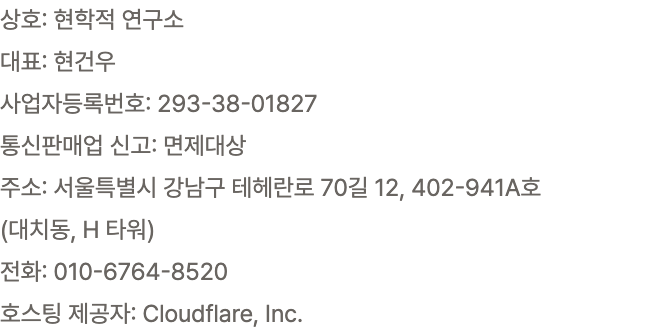
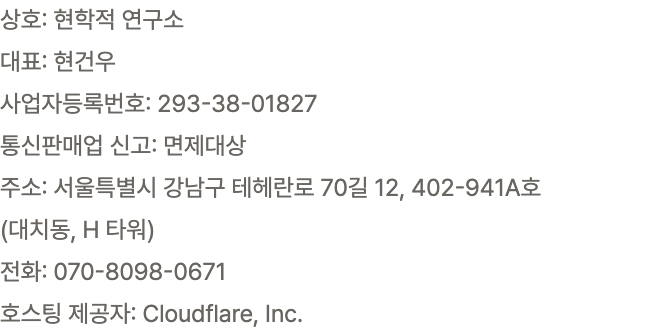
PG 심사 요건 보완: 푸터 유선번호 070-8098-0671, 약관과 개인정보 미완성 표식 제거, 결제사 표기 중립화
포트원 계약 담당 메일(09-01 15:02) 반려 사유 = 사이트 하단 유선 번호 기재 누락.
bizinfo.png 는 로컬에서 이미 070 으로 바뀌어 있었으나 미배포 상태였다.

- assets/bizinfo.png, _tools/render_bizinfo.mjs: 대표번호 010-6764-8520 → 070-8098-0671
- terms.html: 제5조 결제대행사에 포트원(KG이니시스, NHN KCP) 병기, 시행일 2026-09-01 확정,
  "[사업자 정보 확정 후 법률 검토를 거쳐 최종본을 게시합니다]" 표식 제거 (심사자가 미완성 약관으로 읽는다)
- privacy.html: 처리 위탁 "[계약 확정 후 상호 기재]" 2건을 실제 수탁자로 교체
  (본인인증 NHN KCP와 포트원, 이메일 Resend, 문자와 알림톡 솔라피), 인프라 Cloudflare 단독(GitHub 삭제),
  결제 처리에 포트원 병기, 문서 버전과 시행일 2026-09-01
- faq.html: 결제 수단 답변에서 토스페이먼츠 고유명 제거, 가상계좌 추가 (JSON-LD 동일)
- about.html: 사업자 정보 위치 문장을 실제(모든 페이지 하단)로 정정
- checkout.html: 테스트 안내문 토글을 서버 판정 cfg.testMode 로 (포트원은 상점 ID 로 테스트 구분 불가)
- pay_done.html: 포트원 복귀 파라미터 흡수 (s1 작업분)
- .assetsignore, .gitignore: *.bak* 제외. wrangler deploy 가 워킹트리 전체를 실어 백업본이 공개 URL 로 노출되던 구멍
- _docs/portone_baroopen_inquiry_20260901.md: 바로오픈 문의 문안

Claude-Session: https://claude.ai/code/session_01CAVwfzNsc7uaxdPUvvbHJh

Changed region(s): [[0.0909, 0.7738, 0.3636, 0.8333]]

diff --git a/faq.html b/faq.html
@@ -18,7 +18,7 @@
 <meta name="twitter:title" content="자주 묻는 질문, 현학적 연구소">
 <meta name="twitter:description" content="면접 가이드북 열람 방식, 제시문 면접 스튜디오 응시와 첨삭, 가격과 환불, 자료 출처에 대한 답을 모았습니다. 현학적 연구소 자주 묻는 질문.">
 <meta name="twitter:image" content="https://hyunhak.com/assets/photo/og_aigen.jpg">
-<script type="application/ld+json">{"@context":"https://schema.org","@graph":[{"@type":"Organization","@id":"https://hyunhak.com/#organization","name":"현학적 연구소","alternateName":"玄學的 硏究所","url":"https://hyunhak.com/","logo":{"@type":"ImageObject","url":"https://hyunhak.com/assets/photo/art_figure.png"},"email":"admin@hyunhak.com","sameAs":[]},{"@type":"WebSite","@id":"https://hyunhak.com/#website","url":"https://hyunhak.com/","name":"현학적 연구소","alternateName":"玄學的 硏究所","publisher":{"@id":"https://hyunhak.com/#organization"},"inLanguage":"ko-KR"},{"@type":"BreadcrumbList","@id":"https://hyunhak.com/faq.html#breadcrumb","itemListElement":[{"@type":"ListItem","position":1,"name":"현학적 연구소","item":"https://hyunhak.com/"},{"@type":"ListItem","position":2,"name":"자주 묻는 질문","item":"https://hyunhak.com/faq.html"}]},{"@type":"WebPage","@id":"https://hyunhak.com/faq.html#webpage","url":"https://hyunhak.com/faq.html","name":"자주 묻는 질문, 현학적 연구소","description":"면접 가이드북 열람 방식, 제시문 면접 스튜디오 응시와 첨삭, 가격과 환불, 자료 출처에 대한 답을 모았습니다. 현학적 연구소 자주 묻는 질문.","isPartOf":{"@id":"https://hyunhak.com/#website"},"inLanguage":"ko-KR","primaryImageOfPage":{"@type":"ImageObject","url":"https://hyunhak.com/assets/photo/og_aigen.jpg"},"breadcrumb":{"@id":"https://hyunhak.com/faq.html#breadcrumb"}},{"@type":"FAQPage","@id":"https://hyunhak.com/faq.html#faq","mainEntity":[{"@type":"Question","name":"면접 가이드북은 무엇을 담고 있습니까","acceptedAnswer":{"@type":"Answer","text":"학교 한 곳의 면접을 한 권으로 정리한 문서입니다. 전형별 면접 제원(실시 여부, 반영 비율, 시간, 형태), 질문 유형별 기출과 예상 질문, 답변 설계 순서가 들어 있습니다. 2027학년도 대비판이며 38개 대학이 있습니다."}},{"@type":"Question","name":"가이드북은 어떻게 읽습니까","acceptedAnswer":{"@type":"Answer","text":"구매 후 회원 계정으로 사이트의 보안 리더에서 읽습니다. 원본 PDF 파일은 제공하지 않으며, 인쇄는 계정당 3회까지 계정 정보가 찍힌 상태로 가능합니다."}},{"@type":"Question","name":"면접 스튜디오는 어떤 서비스입니까","acceptedAnswer":{"@type":"Answer","text":"연세대, 고려대의 제시문 면접을 촬영 응시하고 첨삭받는 온라인 과정입니다. 지문 1편을 고르면 실제 고사장과 같은 규격으로 온라인 응시하고, 회차마다 말한 그대로의 전사, 오독과 비약 진단, 구술체 재구성 세 단의 첨삭이 붙습니다. 지문 1편에 5회까지 응시합니다."}},{"@type":"Question","name":"지문 낱권과 단위 전권의 차이는 무엇입니까","acceptedAnswer":{"@type":"Answer","text":"낱권은 지문 1편 33,000원이고 그 지문으로 5회 응시합니다. 전권은 응시 단위 1곳의 지문 30편 396,000원이며 지문마다 5회 응시, 유효 기간 12개월, 기간 안의 추가 지문이 포함됩니다. 낱권으로 30편을 사면 990,000원이라 전권이 60% 적고, 한 편에 13,200원 꼴입니다. 고려대는 인문과 자연 2단위, 연세대는 신촌 인문 통합, 자연, 국제와 미래 자율융합 디자인, 첨단 보건, 국제까지 6단위입니다."}},{"@type":"Question","name":"체험 응시가 있습니까","acceptedAnswer":{"@type":"Answer","text":"회원 가입 후 체험 응시 1회를 제공합니다. 스튜디오 페이지의 체험 응시 링크에서 시작합니다."}},{"@type":"Question","name":"결제 수단은 무엇입니까","acceptedAnswer":{"@type":"Answer","text":"토스페이먼츠 결제창에서 카드, 계좌이체, 간편결제를 지원합니다. 결제 완료 즉시 이용권이 계정에 부여됩니다."}},{"@type":"Question","name":"환불은 어떻게 됩니까","acceptedAnswer":{"@type":"Answer","text":"디지털 상품은 열람 또는 응시를 시작하기 전까지 전액 환불됩니다. 시작 이후에는 이용약관 환불 조항에 따르며, 실물 배송 상품은 수령 후 7일 이내 미개봉 상태에서 반품됩니다."}},{"@type":"Question","name":"여러 기기에서 볼 수 있습니까","acceptedAnswer":{"@type":"Answer","text":"같은 계정으로 로그인한 기기에서 열람합니다. 열람 기록은 계정 단위로 남으며, 계정 공유는 이용약관 위반입니다."}},{"@type":"Question","name":"간편 로그인은 무엇을 지원합니까","acceptedAnswer":{"@type":"Answer","text":"구글, 카카오, 네이버를 지원합니다. 제공사 등록 절차가 끝나는 대로 버튼이 열리며, 그 전까지는 이메일 가입으로 이용합니다."}},{"@type":"Question","name":"자료의 출처는 무엇입니까","acceptedAnswer":{"@type":"Answer","text":"대학 모집요강, 선행학습영향평가 보고서, 시도 진로진학센터 자료집, 2016~2025 수험생 후기입니다. 페이지마다 (공식)과 (관측)을 구분해 표기하고, 출처 없는 질문은 싣지 않습니다."}},{"@type":"Question","name":"학생 개인정보가 들어 있지 않습니까","acceptedAnswer":{"@type":"Answer","text":"후기에서 수집한 질문은 개인 식별 정보를 제거한 뒤 수록합니다. 스튜디오 응시 영상은 본인 계정에서만 열람하며 외부에 공개하지 않습니다."}},{"@type":"Question","name":"현학적의 뜻이 무엇입니까","acceptedAnswer":{"@type":"Answer","text":"검을 현 玄에 배울 학 學입니다. 『천자문』 첫 구절 天地玄黃의 그 글자이며, 아득히 깊은 배움이라는 뜻으로 씁니다. 사전의 衒學的(학식을 뽐냄)과는 다른 글자입니다."}},{"@type":"Question","name":"문의는 어디로 합니까","acceptedAnswer":{"@type":"Answer","text":"admin@hyunhak.com 앞으로 보내 주세요. 확인 후 답합니다."}}]}]}</script>
+<script type="application/ld+json">{"@context":"https://schema.org","@graph":[{"@type":"Organization","@id":"https://hyunhak.com/#organization","name":"현학적 연구소","alternateName":"玄學的 硏究所","url":"https://hyunhak.com/","logo":{"@type":"ImageObject","url":"https://hyunhak.com/assets/photo/art_figure.png"},"email":"admin@hyunhak.com","sameAs":[]},{"@type":"WebSite","@id":"https://hyunhak.com/#website","url":"https://hyunhak.com/","name":"현학적 연구소","alternateName":"玄學的 硏究所","publisher":{"@id":"https://hyunhak.com/#organization"},"inLanguage":"ko-KR"},{"@type":"BreadcrumbList","@id":"https://hyunhak.com/faq.html#breadcrumb","itemListElement":[{"@type":"ListItem","position":1,"name":"현학적 연구소","item":"https://hyunhak.com/"},{"@type":"ListItem","position":2,"name":"자주 묻는 질문","item":"https://hyunhak.com/faq.html"}]},{"@type":"WebPage","@id":"https://hyunhak.com/faq.html#webpage","url":"https://hyunhak.com/faq.html","name":"자주 묻는 질문, 현학적 연구소","description":"면접 가이드북 열람 방식, 제시문 면접 스튜디오 응시와 첨삭, 가격과 환불, 자료 출처에 대한 답을 모았습니다. 현학적 연구소 자주 묻는 질문.","isPartOf":{"@id":"https://hyunhak.com/#website"},"inLanguage":"ko-KR","primaryImageOfPage":{"@type":"ImageObject","url":"https://hyunhak.com/assets/photo/og_aigen.jpg"},"breadcrumb":{"@id":"https://hyunhak.com/faq.html#breadcrumb"}},{"@type":"FAQPage","@id":"https://hyunhak.com/faq.html#faq","mainEntity":[{"@type":"Question","name":"면접 가이드북은 무엇을 담고 있습니까","acceptedAnswer":{"@type":"Answer","text":"학교 한 곳의 면접을 한 권으로 정리한 문서입니다. 전형별 면접 제원(실시 여부, 반영 비율, 시간, 형태), 질문 유형별 기출과 예상 질문, 답변 설계 순서가 들어 있습니다. 2027학년도 대비판이며 38개 대학이 있습니다."}},{"@type":"Question","name":"가이드북은 어떻게 읽습니까","acceptedAnswer":{"@type":"Answer","text":"구매 후 회원 계정으로 사이트의 보안 리더에서 읽습니다. 원본 PDF 파일은 제공하지 않으며, 인쇄는 계정당 3회까지 계정 정보가 찍힌 상태로 가능합니다."}},{"@type":"Question","name":"면접 스튜디오는 어떤 서비스입니까","acceptedAnswer":{"@type":"Answer","text":"연세대, 고려대의 제시문 면접을 촬영 응시하고 첨삭받는 온라인 과정입니다. 지문 1편을 고르면 실제 고사장과 같은 규격으로 온라인 응시하고, 회차마다 말한 그대로의 전사, 오독과 비약 진단, 구술체 재구성 세 단의 첨삭이 붙습니다. 지문 1편에 5회까지 응시합니다."}},{"@type":"Question","name":"지문 낱권과 단위 전권의 차이는 무엇입니까","acceptedAnswer":{"@type":"Answer","text":"낱권은 지문 1편 33,000원이고 그 지문으로 5회 응시합니다. 전권은 응시 단위 1곳의 지문 30편 396,000원이며 지문마다 5회 응시, 유효 기간 12개월, 기간 안의 추가 지문이 포함됩니다. 낱권으로 30편을 사면 990,000원이라 전권이 60% 적고, 한 편에 13,200원 꼴입니다. 고려대는 인문과 자연 2단위, 연세대는 신촌 인문 통합, 자연, 국제와 미래 자율융합 디자인, 첨단 보건, 국제까지 6단위입니다."}},{"@type":"Question","name":"체험 응시가 있습니까","acceptedAnswer":{"@type":"Answer","text":"회원 가입 후 체험 응시 1회를 제공합니다. 스튜디오 페이지의 체험 응시 링크에서 시작합니다."}},{"@type":"Question","name":"결제 수단은 무엇입니까","acceptedAnswer":{"@type":"Answer","text":"결제창에서 카드, 계좌이체, 가상계좌, 간편결제를 지원합니다. 결제 완료 즉시 이용권이 계정에 부여됩니다."}},{"@type":"Question","name":"환불은 어떻게 됩니까","acceptedAnswer":{"@type":"Answer","text":"디지털 상품은 열람 또는 응시를 시작하기 전까지 전액 환불됩니다. 시작 이후에는 이용약관 환불 조항에 따르며, 실물 배송 상품은 수령 후 7일 이내 미개봉 상태에서 반품됩니다."}},{"@type":"Question","name":"여러 기기에서 볼 수 있습니까","acceptedAnswer":{"@type":"Answer","text":"같은 계정으로 로그인한 기기에서 열람합니다. 열람 기록은 계정 단위로 남으며, 계정 공유는 이용약관 위반입니다."}},{"@type":"Question","name":"간편 로그인은 무엇을 지원합니까","acceptedAnswer":{"@type":"Answer","text":"구글, 카카오, 네이버를 지원합니다. 제공사 등록 절차가 끝나는 대로 버튼이 열리며, 그 전까지는 이메일 가입으로 이용합니다."}},{"@type":"Question","name":"자료의 출처는 무엇입니까","acceptedAnswer":{"@type":"Answer","text":"대학 모집요강, 선행학습영향평가 보고서, 시도 진로진학센터 자료집, 2016~2025 수험생 후기입니다. 페이지마다 (공식)과 (관측)을 구분해 표기하고, 출처 없는 질문은 싣지 않습니다."}},{"@type":"Question","name":"학생 개인정보가 들어 있지 않습니까","acceptedAnswer":{"@type":"Answer","text":"후기에서 수집한 질문은 개인 식별 정보를 제거한 뒤 수록합니다. 스튜디오 응시 영상은 본인 계정에서만 열람하며 외부에 공개하지 않습니다."}},{"@type":"Question","name":"현학적의 뜻이 무엇입니까","acceptedAnswer":{"@type":"Answer","text":"검을 현 玄에 배울 학 學입니다. 『천자문』 첫 구절 天地玄黃의 그 글자이며, 아득히 깊은 배움이라는 뜻으로 씁니다. 사전의 衒學的(학식을 뽐냄)과는 다른 글자입니다."}},{"@type":"Question","name":"문의는 어디로 합니까","acceptedAnswer":{"@type":"Answer","text":"admin@hyunhak.com 앞으로 보내 주세요. 확인 후 답합니다."}}]}]}</script>
 <!-- seo:end -->
 <link rel="icon" href="assets/favicon_32.png">
 <link rel="preload" as="style" href="https://cdn.jsdelivr.net/gh/orioncactus/pretendard@v1.3.9/dist/web/variable/pretendardvariable-dynamic-subset.min.css" onload="this.onload=null;this.rel='stylesheet'"><noscript><link rel="stylesheet" href="https://cdn.jsdelivr.net/gh/orioncactus/pretendard@v1.3.9/dist/web/variable/pretendardvariable-dynamic-subset.min.css"></noscript>
@@ -91,7 +91,7 @@
     <details class="faq"><summary>지문 낱권과 단위 전권의 차이는 무엇입니까</summary><div class="a"><p>낱권은 지문 1편 33,000원이고 그 지문으로 5회 응시합니다. 전권은 응시 단위 1곳의 지문 30편 396,000원이며 지문마다 5회 응시, 유효 기간 12개월, 기간 안의 추가 지문이 포함됩니다. 낱권으로 30편을 사면 990,000원이라 전권이 60% 적고, 한 편에 13,200원 꼴입니다. 고려대는 인문과 자연 2단위, 연세대는 신촌 인문 통합, 자연, 국제와 미래 자율융합 디자인, 첨단 보건, 국제까지 6단위입니다.</p></div></details>
     <details class="faq"><summary>체험 응시가 있습니까</summary><div class="a"><p>회원 가입 후 체험 응시 1회를 제공합니다. 스튜디오 페이지의 체험 응시 링크에서 시작합니다.</p></div></details>
     <h2 id="q-pay">결제와 이용</h2>
-    <details class="faq"><summary>결제 수단은 무엇입니까</summary><div class="a"><p>토스페이먼츠 결제창에서 카드, 계좌이체, 간편결제를 지원합니다. 결제 완료 즉시 이용권이 계정에 부여됩니다.</p></div></details>
+    <details class="faq"><summary>결제 수단은 무엇입니까</summary><div class="a"><p>결제창에서 카드, 계좌이체, 가상계좌, 간편결제를 지원합니다. 결제 완료 즉시 이용권이 계정에 부여됩니다.</p></div></details>
     <details class="faq"><summary>환불은 어떻게 됩니까</summary><div class="a"><p>디지털 상품은 열람 또는 응시를 시작하기 전까지 전액 환불됩니다. 시작 이후에는 이용약관 환불 조항에 따르며, 실물 배송 상품은 수령 후 7일 이내 미개봉 상태에서 반품됩니다.</p></div></details>
     <details class="faq"><summary>여러 기기에서 볼 수 있습니까</summary><div class="a"><p>같은 계정으로 로그인한 기기에서 열람합니다. 열람 기록은 계정 단위로 남으며, 계정 공유는 이용약관 위반입니다.</p></div></details>
     <details class="faq"><summary>간편 로그인은 무엇을 지원합니까</summary><div class="a"><p>구글, 카카오, 네이버를 지원합니다. 제공사 등록 절차가 끝나는 대로 버튼이 열리며, 그 전까지는 이메일 가입으로 이용합니다.</p></div></details>

diff --git a/checkout.html b/checkout.html
@@ -27,7 +27,6 @@
 <link rel="preconnect" href="https://cdn.jsdelivr.net" crossorigin>
 <link rel="preload" as="style" href="https://fonts.googleapis.com/css2?family=Noto+Serif+KR:wght@300;500;700&display=swap" onload="this.onload=null;this.rel='stylesheet'"><noscript><link rel="stylesheet" href="https://fonts.googleapis.com/css2?family=Noto+Serif+KR:wght@300;500;700&display=swap"></noscript>
 <link rel="stylesheet" href="assets/base.css">
-<script src="https://js.tosspayments.com/v2/standard"></script>
 <style>
 /* 결제 전용 */
 .lay{padding-top:0}
@@ -37,6 +36,10 @@
 .addr .zipline{display:grid;grid-template-columns:minmax(0,1fr) auto;gap:var(--s3);align-items:end}
 .addr .zipline .btn{margin-bottom:var(--s4)}
 .pay #payment-method,.pay #agreement{background:var(--card);border-radius:6px;padding:var(--s2)}
+.pay .pgm{border:0;margin:0;padding:0}.pay .pgm legend{position:absolute;width:1px;height:1px;overflow:hidden;clip:rect(0 0 0 0)}
+.pay .pgm label,.pay .agree{display:flex;align-items:center;gap:.5rem;padding:.55rem 0;cursor:pointer}
+.pay .pgm label+label{border-top:1px solid var(--line)}
+.pay .pgm .note{color:var(--muted);font-size:.86em}
 .pay #agreement{margin-top:var(--s3)}
 .bill .item{display:flex;justify-content:space-between;gap:16px;padding:10px 0;font-size:14px;border-top:1px solid var(--hairs)}
 .bill .item span:first-child{color:var(--body)}
@@ -86,7 +89,7 @@
    <div class="pagehead">
     <nav class="crumb" aria-label="위치"><a href="index.html">현학적 연구소</a><span aria-hidden="true">/</span><a href="cart.html">장바구니</a><span aria-hidden="true">/</span><span>결제</span></nav>
     <h1>결제</h1>
-    <p class="lede">토스페이먼츠 결제창. 카드, 계좌이체, 간편결제.</p>
+    <p class="lede">카드, 계좌이체, 가상계좌로 결제합니다.</p>
    </div>
   </div>
 </section>
@@ -200,7 +203,7 @@ document.addEventListener('DOMContentLoaded', async function(){
       + '<p class="hh-popup-kind">구매 전 안내</p>'
       + '<h2 id="gbNoticeTitle" class="hh-popup-title">가이드북 열람 안내</h2>'
       + '<div class="hh-popup-body">'
-      + '<p>가이드북은 결제 즉시 브라우저 보안 리더로 열람하실 수 있으며, 열람 기간은 구매일부터 3개월입니다.</p>'
+      + '<p>가이드북은 결제 즉시 브라우저 보안 리더로 열람하실 수 있으며, 열람 기간은 구매일부터 1개월입니다.</p>'
       + '<p>인쇄는 권당 3회까지 가능합니다.</p>'
       // 전자상거래법 제17조 제6항: 청약철회 제한 사실을 구매 화면에 표시 (약관 제6조 ③ 과 같은 문장, 2026-08-30 AIG-5)
       + '<p>열람을 시작한 뒤에는 청약철회가 제한됩니다(전자상거래법 제17조 제2항). 열람을 시작하기 전에는 취소할 수 있습니다.</p>'
@@ -243,20 +246,110 @@ document.addEventListener('DOMContentLoaded', async function(){
   $('#sumTotal').textContent = HH.won(total);
   $('#payBtn').textContent = HH.won(total)+' 결제';
 
-  // 위젯 초기화 실패(설정 API, SDK 로드, 키 문제) 시 무반응 버튼 방지: 성공 전까지 비활성 + 안내
-  var widgets;
+  // 결제사가 둘이다. 토스는 위젯이 결제수단 화면을 그려 주고, 포트원에는 그런 위젯이 없어
+  // 우리가 직접 그린다. 두 드라이버가 같은 계약(ready/setAmount/requestPayment)을 만족하므로
+  // 아래 결제 버튼 처리는 어느 쪽이든 한 벌로 돈다.
+  function loadScript(src){
+    return new Promise(function(res, rej){
+      var el = document.createElement('script'); el.src = src; el.async = true;
+      el.onload = res; el.onerror = function(){ rej(new Error('결제 모듈을 불러오지 못했습니다')); };
+      document.head.appendChild(el);
+    });
+  }
+
+  function tossDriver(cfg, member){
+    var widgets = null;
+    return {
+      async ready(amount){
+        await loadScript('https://js.tosspayments.com/v2/standard');
+        if(typeof TossPayments !== 'function') throw new Error('결제 모듈을 불러오지 못했습니다');
+        widgets = TossPayments(cfg.tossClientKey).widgets({ customerKey: member.id });
+        await widgets.setAmount({ currency:'KRW', value: amount });
+        await Promise.all([
+          widgets.renderPaymentMethods({ selector:'#payment-method' }),
+          widgets.renderAgreement({ selector:'#agreement' })
+        ]);
+      },
+      setAmount: function(amount){ return widgets.setAmount({ currency:'KRW', value: amount }); },
+      requestPayment: function(order){
+        return widgets.requestPayment({
+          orderId: order.orderId,
+          orderName: order.orderName,
+          successUrl: location.origin + '/pay_done.html',
+          failUrl: location.origin + '/pay_done.html?fail=1',
+          customerEmail: member.email,
+          customerName: member.name || undefined
+        });
+      }
+    };
+  }
+
+  function portoneDriver(cfg, member){
+    // 바로오픈(KG이니시스)에서 열리는 수단은 셋이다. 간편결제와 할부는 카드사 심사가
+    // 끝나기 전까지 열리지 않으므로 화면에도 올리지 않는다.
+    var METHODS = [
+      { v:'CARD',            label:'카드',        note:'일시불' },
+      { v:'TRANSFER',        label:'실시간 계좌이체', note:'' },
+      { v:'VIRTUAL_ACCOUNT', label:'가상계좌',    note:'입금이 확인되면 지급됩니다' }
+    ];
+    var picked = 'CARD';
+    return {
+      async ready(){
+        await loadScript('https://cdn.portone.io/v2/browser-sdk.js');
+        if(!window.PortOne) throw new Error('결제 모듈을 불러오지 못했습니다');
+        $('#payment-method').innerHTML =
+          '<fieldset class="pgm"><legend>결제 수단</legend>' +
+          METHODS.map(function(m, i){
+            return '<label><input type="radio" name="pgm" value="' + m.v + '"' + (i===0?' checked':'') + '> '
+              + esc(m.label) + (m.note ? ' <span class="note">' + esc(m.note) + '</span>' : '') + '</label>';
+          }).join('') + '</fieldset>';
+        $('#payment-method').addEventListener('change', function(ev){
+          if(ev.target && ev.target.name === 'pgm') picked = ev.target.value;
+        });
+        $('#agreement').innerHTML =
+          '<label class="agree"><input type="checkbox" id="pgAgree"> '
+          + '<a href="terms.html" target="_blank" rel="noopener">이용약관</a>과 '
+          + '<a href="privacy.html" target="_blank" rel="noopener">개인정보 처리방침</a>에 동의하고 결제합니다.</label>';
+      },
+      setAmount: function(){ return Promise.resolve(); },   // 포트원은 결제 호출 시점에 금액을 넘긴다
+      async requestPayment(order){
+        if(!$('#pgAgree') || !$('#pgAgree').checked){
+          var err = new Error('약관에 동의해 주세요'); err.code = 'AGREEMENT_REQUIRED'; throw err;
+        }
+        var req = {
+          storeId: cfg.portoneStoreId,
+          channelKey: cfg.portoneChannelKey,
+          paymentId: order.orderId,          // 주문번호를 결제 식별자로 그대로 쓴다 (조회 키가 하나)
+          orderName: order.orderName,
+          totalAmount: order.amount,
+          currency: 'CURRENCY_KRW',
+          payMethod: picked,
+          redirectUrl: location.origin + '/pay_done.html',
+          customer: { customerId: member.id, email: member.email, fullName: member.name || undefined }
+        };
+        if(picked === 'VIRTUAL_ACCOUNT') req.virtualAccount = { accountExpiry: { validHours: 72 } };
+        var res = await PortOne.requestPayment(req);
+        // 모바일은 redirectUrl 로 떠나고, PC 는 결과를 돌려준다. 확정 경로를 한 곳으로 모으려고
+        // PC 도 같은 주소로 보낸다 (승인 검증이 pay_done 한 곳에만 있게).
+        if(res && res.code){
+          var e2 = new Error(res.message || '결제를 시작하지 못했습니다'); e2.code = res.code; throw e2;
+        }
+        location.href = '/pay_done.html?paymentId=' + encodeURIComponent(order.orderId)
+          + (res && res.txId ? '&transactionId=' + encodeURIComponent(res.txId) : '');
+      }
+    };
+  }
+
+  // 초기화 실패(설정 API, SDK 로드, 키 문제) 시 무반응 버튼 방지: 성공 전까지 비활성 + 안내
+  var driver;
   $('#payBtn').disabled = true;
   try{
     var cfg = await HH.api('/api/config');
-    if(!/^test_/.test(cfg.tossClientKey)) $('#testNote').style.display='none';
-    if(typeof TossPayments!=='function') throw new Error('결제 모듈을 불러오지 못했습니다');
-    var toss = TossPayments(cfg.tossClientKey);
-    widgets = toss.widgets({ customerKey: st.member.id });
-    await widgets.setAmount({ currency:'KRW', value: total });
-    await Promise.all([
-      widgets.renderPaymentMethods({ selector:'#payment-method' }),
-      widgets.renderAgreement({ selector:'#agreement' })
-    ]);
+    // 테스트 여부는 서버가 판정해 내려준다 (포트원은 상점 ID 로 구분이 안 되고 채널 단위다)
+    var isTest = !!cfg.testMode;
+    if(!isTest) $('#testNote').style.display='none';
+    driver = cfg.provider === 'portone' ? portoneDriver(cfg, st.member) : tossDriver(cfg, st.member);
+    await driver.ready(total);
     widgetReady = true; syncPayBtn();
   }catch(e){
     $('#payment-method').innerHTML = '<p class="note" role="alert">결제 수단을 불러오지 못했습니다. 새로고침 후 다시 시도하시고, 반복되면 admin@hyunhak.com 으로 알려 주세요.</p>';
@@ -289,21 +382,15 @@ document.addEventListener('DOMContentLoaded', async function(){
           return '<p class="item"><span>'+esc(it.title)+', '+it.qty+(it.ship?'부':'건')+'</span><span>'+HH.won(it.price*it.qty)+'</span></p>'}).join('');
         $('#sumTotal').textContent = HH.won(total);
         btn.disabled = false; btn.textContent = HH.won(total) + ' 결제';
-        await widgets.setAmount({ currency:'KRW', value: total });
+        await driver.setAmount(total);
         alert('상품 가격이 변경되어 결제 금액이 ' + HH.won(total) + ' 입니다. 품목 금액을 확인하신 뒤 다시 눌러 주세요.');
         return;
       }
-      await widgets.setAmount({ currency:'KRW', value: order.amount });
-      await widgets.requestPayment({
-        orderId: order.orderId,
-        orderName: order.orderName,
-        successUrl: location.origin + '/pay_done.html',
-        failUrl: location.origin + '/pay_done.html?fail=1',
-        customerEmail: st.member.email,
-        customerName: st.member.name || undefined
-      });
+      await driver.setAmount(order.amount);
+      await driver.requestPayment(order);
     }catch(e){
-      if(e && e.code === 'USER_CANCEL') {} else alert(e.message||'결제를 시작하지 못했습니다');
+      var canceled = e && (e.code === 'USER_CANCEL' || /취소|cancel/i.test(String(e.code||'') + ' ' + String(e.message||'')));
+      if(canceled) {} else alert(e.message||'결제를 시작하지 못했습니다');
       btn.disabled=false; btn.textContent=HH.won(total)+' 결제';
     }
   });

diff --git a/terms.html b/terms.html
@@ -108,7 +108,7 @@
 
   <h2>제5조 (구매와 결제)</h2>
   <ol>
-    <li>결제는 연구소가 계약한 전자결제대행사(토스페이먼츠)를 통해 처리합니다.</li>
+    <li>결제는 연구소가 계약한 전자결제대행사(토스페이먼츠, 포트원을 통한 KG이니시스와 NHN KCP)를 통해 처리합니다.</li>
     <li>주문 금액은 서버에 등록된 판매가를 기준으로 확정하며, 표시 오류가 있는 경우
     결제 전 고지 후 정정합니다.</li>
     <li>실물 상품의 배송비는 3,000원이며 5만원 이상 주문 시 무료입니다.</li>
@@ -145,7 +145,7 @@
   <h2>제8조의2 (가이드북 열람 서비스)</h2>
   <ol>
     <li>가이드북은 파일을 전달하지 않고 웹 열람 방식으로 제공하며, 구매한 계정으로만 열람할 수
-    있습니다. 열람 기간은 구매일부터 3개월입니다. 동시 열람은 계정당 3개 세션까지 허용하고,
+    있습니다. 열람 기간은 구매일부터 1개월입니다. 동시 열람은 계정당 3개 세션까지 허용하고,
     초과하면 가장 오래된 세션이 자동 종료됩니다. 인터넷 강의의 동시 시청에도 같은 세션 한도를
     적용합니다. 인쇄는 권당 3회까지 가능합니다.</li>
     <li>회원은 다음 행위를 할 수 없습니다.
@@ -188,8 +188,7 @@
   <p>서비스 이용과 관련한 분쟁은 연구소와 이용자가 성실히 협의하여 해결하며,
   협의가 이루어지지 않는 경우 민사소송법상의 관할 법원에 제소합니다.</p>
 
-  <p class="updated">문서 버전: 2026-08-26. 시행일: 정식 오픈일에 확정합니다.
-  <span class="mark">[사업자 정보 확정 후 법률 검토를 거쳐 최종본을 게시합니다]</span></p>
+  <p class="updated">문서 버전: 2026-09-01. 시행일: 2026-09-01.</p>
 
 </div></div>
 

diff --git a/pay_done.html b/pay_done.html
@@ -119,16 +119,25 @@ document.addEventListener('DOMContentLoaded', async function(){
     return;
   }
 
-  var paymentKey = q.get('paymentKey'), orderId = q.get('orderId'), amount = parseInt(q.get('amount'), 10);
-  if (!paymentKey || !orderId || !amount) {
+  // 결제사마다 돌아오는 파라미터 이름이 다르다.
+  //   토스   ?paymentKey=&orderId=&amount=
+  //   포트원 ?paymentId=&transactionId=   (금액을 주지 않는다)
+  // 금액은 어차피 서버가 DB 값으로만 승인하므로, 없으면 응답에서 받아 표시한다.
+  var paymentKey = q.get('paymentKey') || q.get('transactionId');
+  var orderId = q.get('orderId') || q.get('paymentId');
+  var amount = parseInt(q.get('amount'), 10);
+  if (!Number.isInteger(amount)) amount = null;
+  if (!orderId) {
     h.textContent = '잘못된 접근입니다';
     sub.textContent = '결제 창을 통해서만 열리는 화면입니다.';
     acts.hidden = false; acts.innerHTML = '<a class="btn" href="index.html">처음으로 <span class="ar" aria-hidden="true">→</span></a>';
     return;
   }
   try {
-    var r = await HH.api('/api/payments/confirm', { method: 'POST',
-      body: JSON.stringify({ paymentKey: paymentKey, orderId: orderId, amount: amount }) });
+    var reqBody = { paymentKey: paymentKey, orderId: orderId };
+    if (amount !== null) reqBody.amount = amount;          // 토스 경로만 클라이언트 금액 대조를 겸한다
+    var r = await HH.api('/api/payments/confirm', { method: 'POST', body: JSON.stringify(reqBody) });
+    if (amount === null) amount = r.amount;                // 포트원 경로는 서버가 확정한 금액으로 표시
     try { localStorage.removeItem('hh_cart_v1'); } catch(e) {}
     if (r.status === 'waiting_deposit') {
       var va = r.vaccount || {};

diff --git a/privacy.html b/privacy.html
@@ -102,10 +102,11 @@
 
   <h2>2. 처리 위탁과 제3자 제공</h2>
   <ul>
-    <li>결제 처리: 토스페이먼츠 (결제 승인, 정산)</li>
-    <li>인프라 운영: Cloudflare (웹 호스팅, 보안), GitHub (정적 페이지 호스팅)</li>
-    <li>본인인증(도입 시): 본인확인기관과 인증 중개사 <span class="mark">[계약 확정 후 상호 기재]</span></li>
-    <li>이메일, 문자 발송(도입 시): 발송 대행사 <span class="mark">[계약 확정 후 상호 기재]</span></li>
+    <li>결제 처리: 토스페이먼츠, 포트원(KG이니시스, NHN KCP 결제 중개) (결제 승인, 정산)</li>
+    <li>인프라 운영: Cloudflare (웹 호스팅, 보안, 데이터베이스, 파일 저장)</li>
+    <li>본인인증(도입 시): NHN KCP (휴대폰 본인확인), 포트원 (인증 중개)</li>
+    <li>이메일 발송: Resend (인증 메일, 주문과 이용권 안내)</li>
+    <li>문자, 알림톡 발송(도입 시): 솔라피 (주문과 이용권 안내)</li>
   </ul>
   <p>위 수탁자 외 제3자에게 개인정보를 제공하지 않습니다. 다만 아래의 경우 정보주체의
   개별 동의를 받아 제3자에게 제공합니다. 법령에 근거한 요청은 예외로 합니다.</p>
@@ -175,8 +176,7 @@
   <h2>8. 개인정보 보호책임자</h2>
   <p>보호책임자: 현건우,  문의: admin@hyunhak.com</p>
 
-  <p class="updated">문서 버전: 2026-08-26. 시행일: 정식 오픈일에 확정합니다.
-  <span class="mark">[사업자 정보 확정 후 법률 검토를 거쳐 최종본을 게시합니다]</span></p>
+  <p class="updated">문서 버전: 2026-09-01. 시행일: 2026-09-01.</p>
 
 </div></div>
 

diff --git a/about.html b/about.html
@@ -97,7 +97,7 @@
   <div class="prose rv">
     <p>현학적 연구소는 대입 면접만 다룹니다. 대학이 공개한 모집요강과 선행학습영향평가 보고서, 수험생 후기에서 관측된 질문을 모아 학교별로 정리하고, 제시문 면접은 학생이 실제로 말하는 장면을 온라인으로 촬영해 첨삭합니다.</p>
     <p>산출물은 두 가지입니다. 학교별 2027 면접 가이드북 38권, 그리고 연세대와 고려대의 제시문 면접 스튜디오입니다.</p>
-    <p>면접 자료의 출처는 페이지마다 공식과 관측을 구분해 표기합니다. 사업자 정보는 하단 이용약관과 개인정보처리방침에 기재합니다.</p>
+    <p>면접 자료의 출처는 페이지마다 공식과 관측을 구분해 표기합니다. 사업자 정보(상호, 대표, 사업자등록번호, 주소, 전화)는 모든 페이지 하단에 기재합니다.</p>
   </div>
   <div class="glyph rv" aria-hidden="true"><b>玄</b><span>검을 현. 아득히 깊은 배움</span></div>
 </section>

diff --git a/_docs/portone_baroopen_inquiry_20260901.md b/_docs/portone_baroopen_inquiry_20260901.md
@@ -1,0 +1,36 @@
+# 포트원 바로오픈 문의 문안 (2026-09-01)
+
+보낼 곳: 포트원 관리자콘솔 채널톡, 또는 pgs@portone.io
+계정: 현학적 연구소 / alongtheblue@gmail.com / Store ID `store-84534eb1-dc61-4f76-8244-760ea90582d3`
+
+---
+
+## 문의 본문 (그대로 복사해 보내시면 됩니다)
+
+안녕하세요. 현학적 연구소입니다.
+
+KG이니시스와 NHN KCP로 전자결제를 신청해 현재 심사가 진행 중입니다. 카드사 심사까지 기다리기 어려운 사정이 있어 바로오픈 서비스 이용을 문의드립니다.
+
+1. 저희 신청 건에 KG이니시스 바로오픈을 적용할 수 있는지, 적용하려면 어떤 절차가 필요한지 알려주세요. 헬프센터 문서에는 KG이니시스가 신청 즉시 이용 가능하다고 되어 있는데, 콘솔의 전자결제 신청 화면에는 별도 신청 경로가 보이지 않습니다.
+
+2. 판매 상품이 무형입니다. 대학별 면접 가이드북을 웹 열람 방식으로 제공하고(파일 다운로드 없이 브라우저 리더에서만 열람), 온라인 면접 첨삭 서비스를 함께 판매합니다. 실물 배송 상품은 없습니다. 이 상품 구성으로 바로오픈이 가능한지 확인 부탁드립니다.
+
+3. 바로오픈으로 열리는 결제수단과 한도를 알려주세요. 문서에는 카드 일시불, 실시간 계좌이체, 가상계좌로 안내되어 있는데 거래 한도나 기간 제한이 따로 있는지 궁금합니다.
+
+4. 바로오픈 기간 중 정산은 월 1회로 이해하고 있습니다. 카드사 심사 완료 후 정산 주기 변경이 자동으로 이루어지는지, 별도 신청이 필요한지 알려주세요.
+
+5. 카드사 심사가 반려될 경우 서비스가 즉시 중단된다고 안내되어 있습니다. 저희 업종(온라인 교육 콘텐츠, 입시 정보 제공)에서 반려 사유로 자주 걸리는 항목이 있다면 미리 알려주시면 준비하겠습니다.
+
+감사합니다.
+
+---
+
+## 참고 (보내실 때 알아두시면 좋은 것)
+
+- PG사와 주고받는 모든 메일에 `pgs@portone.io`를 참조로 넣으라는 안내가 콘솔에 있습니다.
+- 문서상 토스페이먼츠 바로오픈은 "국내에서 7일 이내에 배송되는 실물 유형 제품" 한정이라 저희 상품 구성에는 해당하지 않습니다. 이니시스가 유일한 경로입니다.
+- 3번 항목(한도)은 공개 문서에 없어서 답을 받아야 확인됩니다.
+
+출처
+- 바로오픈 서비스 안내 https://help.portone.io/content/open-immediately
+- 결제대행사 가입시 위험 업종 유형 https://help.portone.io/content/high-risk-industry

diff --git a/_design/profile_copywash_20260831/COPY_DECK.md b/_design/profile_copywash_20260831/COPY_DECK.md
@@ -141,7 +141,7 @@ H1 후보 3 판정: 렌즈1 은 초안(후보 1)과 동점 4. 올라간 축 = H1
 
 원천 = `https://www.tosspayments.com/notice/20057` 「전자계약 신청서 작성 완료 후 절차 안내」(2020.10.15). WebFetch 는 SPA 셸만 반환(본문 0)해 실브라우저로 재판정, 채증 = `scratchpad/toss_notice.png` + 본문 verbatim.
 
-건우 제공 사실: 유선번호 `010-6764-8520`, 사업장 주소 `서울특별시 강남구 테헤란로 70길 12, 402-941A호(대치동, H 타워)`.
+건우 제공 사실: 유선번호 `070-8098-0671` (2026-09-01 교체, 종전 `010-6764-8520`), 사업장 주소 `서울특별시 강남구 테헤란로 70길 12, 402-941A호(대치동, H 타워)`.
 
 ### 10.1 요구 대 현황
 공지 원문: "홈페이지 하단에 사업자등록증 상의 상호명, 사업자등록번호, 대표자명, 사업장 주소, 유선번호를 꼭 넣어주세요." "유선번호 대체 가능한 번호체계: 070, 0505, 전국대표번호, 080, 휴대폰번호"
